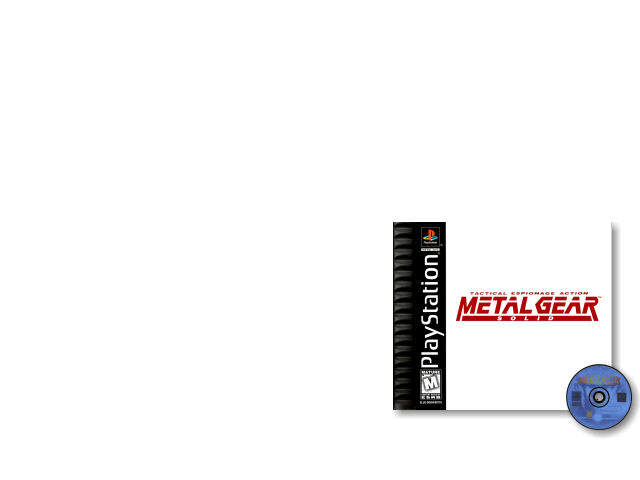
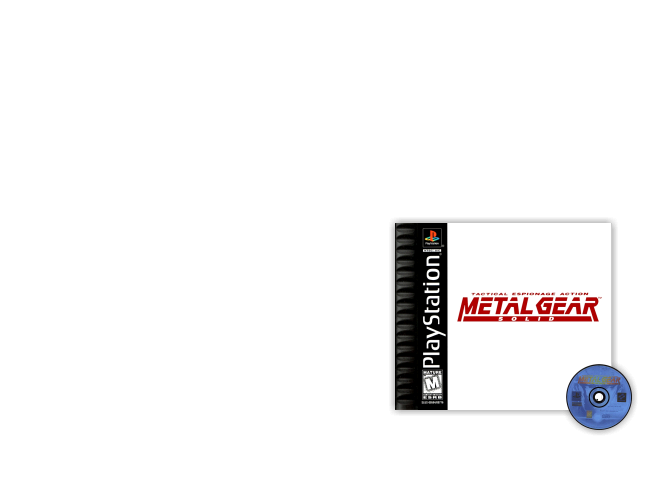
Update samples

Changed region(s): [[0.5938, 0.4375, 1.0, 0.9062]]

diff --git a/games-scraping/mixes/README.md b/games-scraping/mixes/README.md
@@ -34,6 +34,10 @@ This XML mixes are designed to be used with MuOS and the provided transparency m
   <img src="samples/simple-box.png">
 
   simple-box.xml
+
+  <img src="samples/simple-box-shadow.png">
+
+  simple-box-shadow.xml
 </kbd>
 
 
